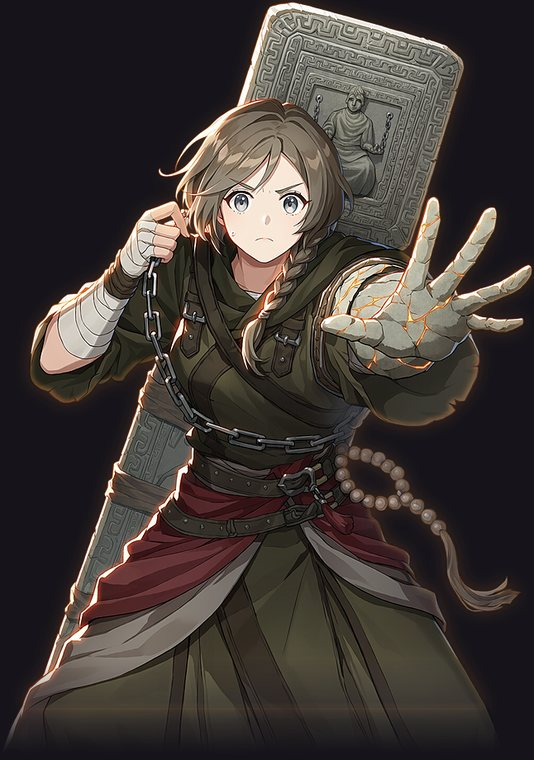
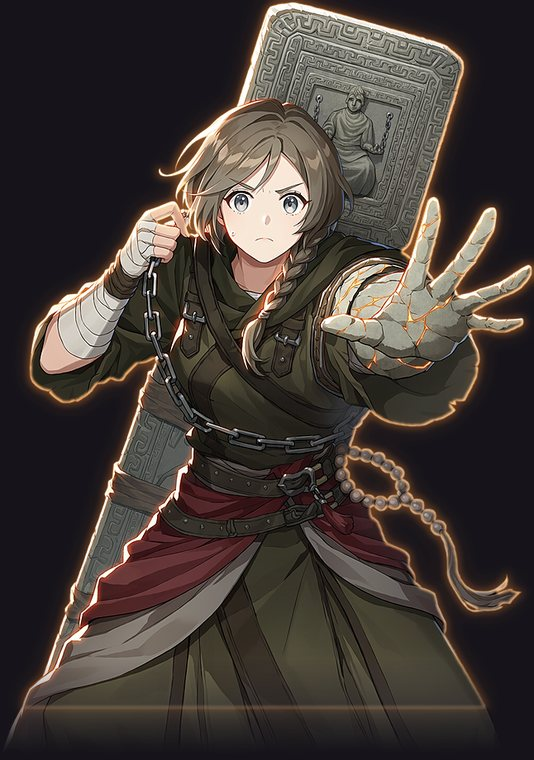
手搓魔法 11-08 审阅：另一世守关者加强（卢西安重做、塞德里克 / 奥斯温更有威压、轮廓光向赛琳娜看齐）

diff --git a/shoucuo-review-1108-guardians/index.html b/shoucuo-review-1108-guardians/index.html
@@ -21,7 +21,7 @@ figure{margin:0;text-align:center} .pair img{width:100%;border-radius:6px;displa
 .foes{display:grid;gap:16px;margin-top:10px} .foe{display:grid;grid-template-columns:220px 1fr;gap:18px;background:#19161d;border-radius:8px;padding:12px}
 .foe .pic img{width:100%;border-radius:6px}
 .alt{color:#b9a9d9;font-size:14px;margin:0 0 4px 1em} .tag{background:#3a2f4a;color:#e0d0ff;font-size:11px;padding:0 5px;border-radius:3px;margin-left:6px}
-.dec{background:#1d2420;border:1px solid #34503f;border-radius:8px;padding:10px 18px;margin-top:12px} .dec b{color:#9fd8a8}
+.dec{background:#1d2420;border:1px solid #34503f;border-radius:8px;padding:10px 18px;margin-top:12px} .dec b{color:#9fd8a8} .cmp{display:flex;gap:6px;flex-wrap:wrap} .cmp img{height:260px;border-radius:4px}
 @media(max-width:760px){.card,.foe,.lineup{grid-template-columns:1fr} .pair{position:static}}
 </style></head><body><main>
 <h1>另一世的敌人 · 守关者 / 精英 / 普通（11-08 待审）</h1>
@@ -35,6 +35,19 @@ figure{margin:0;text-align:center} .pair img{width:100%;border-radius:6px;displa
 <p><b>画风：</b>和现有敌人同一条 NovelAI V5 管线。守关者用 11-06 定稿的半身引导姿态模板（透明底、统一 920 高、暖橙火光轮廓），每人 3 张候选（第 4、6 关第二轮再出 3 张）。精英、普通用原版 gen_foes.py 的同一模板（不加火光轮廓，和原来的一致），精英 3 张、普通 2 张候选。卡片上的大图是选中的，下面是备选。男女：新守关者 3 女 4 男，新精英 4 女 4 男，新普通 4 女 4 男。</p>
 <p><b>本页只是第一阶段：</b>立绘 + 人设，游戏代码没改。确认后再做：接入时间线随机、配音、典籍「另一世」分页、薇丝塔残语。每关先看最上面的三栏阵容（本世 / 另一世对照），往下是人设。</p>
 <p><b>跳到：</b><a href="#s1">1 魔蚀荒原</a> · <a href="#s2">2 失落魔都</a> · <a href="#s3">3 登天古道</a> · <a href="#s4">4 云间断桥</a> · <a href="#s5">5 浮空遗城</a> · <a href="#s6">6 天穹壁垒</a> · <a href="#s7">7 天空王城</a> · <a href="#s8">8 原初源泉</a></p>
+</div>
+<div class="dec"><p><b>本轮改动（用户：新守关者「看起来有点不够强大」）</b></p>
+<p>11-08 用户：新守关者「看起来有点不够强大」→ 卢西安重做成倒转时间三百年的大师（成年、金纹时伤、齿轮披风、钟针巨枪、身后倒转的钟环、上涌的时之沙）；塞德里克（巨钟、铃甲、自下而上）和奥斯温（巨剑扛肩、重铠）换成更有威压的版本；7 位的轮廓光改用 rim_selin.py，向赛琳娜看齐（贴边的暖亮线加强，外晕收淡）。</p>
+<div class="cmp">
+<figure><img src="img/v1_b5_alt.jpg"><figcaption>卢西安 · 上一版</figcaption></figure>
+<figure><img src="img/b5_alt.jpg"><figcaption><b>卢西安 · 新版</b></figcaption></figure>
+<figure><img src="img/b7_selin.jpg"><figcaption>参照 · 赛琳娜的轮廓光</figcaption></figure>
+<figure><img src="img/rimold_b1_alt.jpg"><figcaption>玛尔塔 · 旧轮廓光</figcaption></figure>
+<figure><img src="img/b1_alt.jpg"><figcaption><b>玛尔塔 · 新轮廓光</b></figcaption></figure>
+<figure><img src="img/rimold_b7_alt.jpg"><figcaption>卡西安 · 旧轮廓光</figcaption></figure>
+<figure><img src="img/b7_alt.jpg"><figcaption><b>卡西安 · 新轮廓光</b></figcaption></figure>
+</div>
+<p>塞德里克、奥斯温的上一版在各自卡片的备选里（s3 / s6）。</p>
 </div>
 <div class="dec"><p><b>已定（11-08（用户答复，经协调者转达））</b></p>
 <p><b>剧情依赖：</b>同意：每关在守关者第一次被击败之前都走本世（守关者 / 精英 / 普通都用原来的）；之后每一局随机，整关一起换。</p>
@@ -80,7 +93,7 @@ figure{margin:0;text-align:center} .pair img{width:100%;border-radius:6px;displa
     <h4>战斗台词（↳ 是 alt 句）</h4><table class="lines"><tr><th>登场</th><td><div>「当——……这一刻的名字，已经念过了。」</div><div class="alt">↳ 「当——……你又是这个时辰来的。」<span class="tag">重逢</span></div><div>「沉下去的人，要有人叫，才不会被忘。」</div><div class="alt">↳ 「这口铃，替沉下去的每一个人开口。」</div><div>「你叫什么？……别告诉我。我快念不动了。」</div><div class="alt">↳ 「你的名字……我好像叫过很多次了。没人答。」<span class="tag">多世</span></div></td></tr><tr><th>残血</th><td><div>「铃口裂了……声音在漏。」</div><div class="alt">↳ 「铃声……散在水里了。」</div><div>「还没到整点……不能停！」</div><div class="alt">↳ 「再一下……整点还没过！」</div></td></tr><tr><th>被击败</th><td><div>「铃……不响了。水在往上涨……」</div><div class="alt">↳ 「水又涨上来了……每次都是你。」<span class="tag">曾败</span></div><div>「最后那一段空……留给你自己来答吧。」</div><div class="alt">↳ 「上一次……你好像，答了一声。」<span class="tag">曾败</span></div></td></tr><tr><th>胜利</th><td><div>「当——我会把你也叫一遍。」</div><div class="alt">↳ 「当——又叫了你一次。」<span class="tag">重逢</span></div><div>「放心，你的名字，我念得很轻。」</div><div class="alt">↳ 「这一轮最后那段空……还是留给你。」<span class="tag">多世</span></div></td></tr></table>
     <h4>守关规则联想（只作风味，不使用：规则仍从致命魔法池随机）</h4>
     <p><code>bl_mouth</code> 只能施放 1 种魔法 —— 补咒王维斯的独解令：一口铃，只敲得出一种声音。</p>
-    <h4>备选立绘</h4><div class="alts"><figure><img loading="lazy" src="img/b2_alt_s1.jpg"><figcaption>s1</figcaption></figure><figure><img loading="lazy" src="img/b2_alt_s2.jpg"><figcaption>s2</figcaption></figure></div>
+    <h4>备选立绘</h4><div class="alts"><figure><img loading="lazy" src="img/b2_alt_s3.jpg"><figcaption>s3</figcaption></figure><figure><img loading="lazy" src="img/b2_alt_s7.jpg"><figcaption>s7</figcaption></figure><figure><img loading="lazy" src="img/b2_alt_s9.jpg"><figcaption>s9</figcaption></figure></div>
   </div>
 </section><div class="foes"><div class="foe" id="e2_alt"><figure class="pic"><img loading="lazy" src="img/foe_e2_alt.jpg"></figure><div><h3>溺城赦免官 <small> 水下法庭 · 精英（第 2 战） · 女 · <code>e2_alt</code></small></h3><p class="quote">「依新法：登天者，赦——赦你不必再往上走。」</p><h4>人设</h4><p>法务官的副手。那一世，书库的灯灭了，名录沉了，法务官抱着旧法典沉了下去。她留在水下法庭，按铃声开庭：塞德里克每敲一下铃，她就签一份赦令。她赦免每一个登天者，赦他们不必再走——然后让他们在水里睡着。</p><h4>心愿</h4><p>想有人告诉她，赦令是对的。几百年来，她只赦过别人，从没有人赦过她。</p><h4>和本世「溺城法务官」的镜像</h4><p>本世的法务官按旧法第七条判登天者「当斩」，只等有人说这条法令可以不算了；另一世的她把旧法沉进水里，换成了赦——可赦和斩，落在登天者身上，是同一个结局。</p><h4>台词（↳ 是 alt 句）</h4><table class="lines"><tr><th>登场</th><td><div>「肃静——铃响了，开庭。」</div><div class="alt">↳ 「肃静。本庭……见过你。」<span class="tag">重逢</span></div></td></tr><tr><th>被击败</th><td><div>「这份赦令……留给我自己吧。」</div><div class="alt">↳ 「赦令……签不下去了。」</div></td></tr><tr><th>胜利</th><td><div>「赦你。睡吧，不必再走了。」</div><div class="alt">↳ 「再赦你一次。你每次都不肯睡。」<span class="tag">多世</span></div></td></tr></table><h4>备选立绘</h4><div class="alts small"><figure><img loading="lazy" src="img/foe_e2_alt_s2.jpg"><figcaption>s2</figcaption></figure><figure><img loading="lazy" src="img/foe_e2_alt_s3.jpg"><figcaption>s3</figcaption></figure></div></div></div><div class="foe" id="n2_alt"><figure class="pic"><img loading="lazy" src="img/foe_n2_alt.jpg"></figure><div><h3>溺城铃童 <small> 普通（第 1 战） · 男 · <code>n2_alt</code></small></h3><h4>人设</h4><p>钟楼底下拉铃绳的孩子。塞德里克敲手铃，他们拉大钟。绳子泡了三百年，越来越沉，他们却越拉越小。</p><h4>和本世「浮游抄写员」的镜像</h4><p>本世的抄写员怕你踩到写着名字的纸；另一世没人写字了，孩子们怕你碰到铃绳。</p><h4>台词（↳ 是 alt 句）</h4><table class="lines"><tr><th>登场</th><td><div>「别碰绳子！一松手，大钟就不响了！」</div><div class="alt">↳ 「又是你？……别碰绳子！」<span class="tag">重逢</span></div></td></tr><tr><th>被击败</th><td><div>「绳……从手里滑走了……」</div><div class="alt">↳ 「手……拉不动了……」</div></td></tr><tr><th>胜利</th><td><div>「当——！你听，又一个名字。」</div><div class="alt">↳ 「当——这一声，是给你的。」<span class="tag">多世</span></div></td></tr></table><h4>备选立绘</h4><div class="alts small"><figure><img loading="lazy" src="img/foe_n2_alt_s2.jpg"><figcaption>s2</figcaption></figure></div></div></div></div><h2 class="stage" id="s3">第 3 关 · 登天古道</h2><div class="lineup"><div class="col"><h5>第 1 战 · 普通</h5><div class="duo"><figure><img loading="lazy" src="img/foe_n3.jpg"><figcaption>本世 · 碑文守卫</figcaption></figure><figure><img loading="lazy" src="img/foe_n3_alt.jpg"><figcaption><b>另一世</b> · 负石脚夫</figcaption></figure></div></div><div class="col"><h5>第 2 战 · 精英</h5><div class="duo"><figure><img loading="lazy" src="img/foe_e3.jpg"><figcaption>本世 · 石面苦行法师</figcaption></figure><figure><img loading="lazy" src="img/foe_e3_alt.jpg"><figcaption><b>另一世</b> · 刻像苦行法师</figcaption></figure></div></div><div class="col"><h5>第 3 战 · 守关者</h5><div class="duo"><figure><img loading="lazy" src="img/b3_bald.jpg"><figcaption>本世 · 巴尔德温</figcaption></figure><figure><img loading="lazy" src="img/b3_alt.jpg"><figcaption><b>另一世</b> · 艾格妮丝</figcaption></figure></div></div></div>
 <section class="card" id="b3_alt">
@@ -120,7 +133,7 @@ figure{margin:0;text-align:center} .pair img{width:100%;border-radius:6px;displa
     <h4>战斗台词（↳ 是 alt 句）</h4><table class="lines"><tr><th>登场</th><td><div>「断桥守卫团团长，奥斯温。」</div><div class="alt">↳ 「奥斯温。……你又来了，我认得你的影子。」<span class="tag">重逢</span></div><div>「我往下看了一眼。只一眼。」</div><div class="alt">↳ 「我往下看过一眼，从此只往下看。」</div><div>「站住——这座桥，不再送任何人过去了。」</div><div class="alt">↳ 「回去。这座桥，掉下去的已经够多了。」</div></td></tr><tr><th>残血</th><td><div>「风把云吹开了……下面，好深。」</div><div class="alt">↳ 「云……又在下面张开了。」</div><div>「全团都在下面……我不能倒在这里！」</div><div class="alt">↳ 「你每回倒下，我都往云下找一遍。」<span class="tag">多世</span></div></td></tr><tr><th>被击败</th><td><div>「我……又往下看了。」</div><div class="alt">↳ 「我又往下看了……这一次，看的是你。」<span class="tag">曾败</span></div><div>「孩子……这一次，我不往下看了。我往上看。」</div><div class="alt">↳ 「往上看……你每次都这样跟我说吗。」<span class="tag">曾败</span></div></td></tr><tr><th>胜利</th><td><div>「躺好。别往下看。」</div><div class="alt">↳ 「别往下看。……你每次都往下看。」<span class="tag">重逢</span></div><div>「桥还在。你过不去。」</div><div class="alt">↳ 「又一个名字。我念的时候，会念得慢一点。」<span class="tag">多世</span></div></td></tr></table>
     <h4>守关规则联想（只作风味，不使用：规则仍从致命魔法池随机）</h4>
     <p><code>bl_plant</code> 人像元素被削弱 —— 断桥的藤缚咒：藤爬上团员的画像，他一张也没去扯。</p>
-    <h4>备选立绘</h4><div class="alts"><figure><img loading="lazy" src="img/b4_alt_s1.jpg"><figcaption>s1</figcaption></figure><figure><img loading="lazy" src="img/b4_alt_s2.jpg"><figcaption>s2</figcaption></figure><figure><img loading="lazy" src="img/b4_alt_s3.jpg"><figcaption>s3</figcaption></figure><figure><img loading="lazy" src="img/b4_alt_s4.jpg"><figcaption>s4</figcaption></figure><figure><img loading="lazy" src="img/b4_alt_s5.jpg"><figcaption>s5</figcaption></figure></div>
+    <h4>备选立绘</h4><div class="alts"><figure><img loading="lazy" src="img/b4_alt_s4.jpg"><figcaption>s4</figcaption></figure><figure><img loading="lazy" src="img/b4_alt_s5.jpg"><figcaption>s5</figcaption></figure><figure><img loading="lazy" src="img/b4_alt_s6.jpg"><figcaption>s6</figcaption></figure><figure><img loading="lazy" src="img/b4_alt_s7.jpg"><figcaption>s7</figcaption></figure></div>
   </div>
 </section><div class="foes"><div class="foe" id="e4_alt"><figure class="pic"><img loading="lazy" src="img/foe_e4_alt.jpg"></figure><div><h3>断桥钩绳手 <small> 钩错的人 · 精英（第 2 战） · 男 · <code>e4_alt</code></small></h3><p class="quote">「那天的钩绳是我扔的。我只钩住了一个。」</p><h4>人设</h4><p>断桥守卫团的钩绳手。桥断那一刻，他扔出钩绳，只钩住了团长。他一直觉得钩错了人——团长也这么想，两个人谁都没说。如今他替团长守着桥的这一头，每天往云下扔一次钩绳，钩上来的只有风。</p><h4>心愿</h4><p>想钩住那个孩子。断口上系着的那截红缎带，是他三百年前唯一钩上来的东西。</p><h4>和本世「断桥守卫副团长」的镜像</h4><p>本世，副团长回来时只剩菲奥娜挂在钩绳上，从此管那孩子叫「团长」；另一世，挂在钩绳上的是团长本人，而那根钩绳是他扔的。</p><h4>台词（↳ 是 alt 句）</h4><table class="lines"><tr><th>登场</th><td><div>「站住！我的钩绳，够得着你。」</div><div class="alt">↳ 「这根钩绳……钩过你。」<span class="tag">重逢</span></div></td></tr><tr><th>被击败</th><td><div>「绳断了……这次，换我下去。」</div><div class="alt">↳ 「钩不住了……我总是钩不住。」</div></td></tr><tr><th>胜利</th><td><div>「钩住了。……又不是她。」</div><div class="alt">↳ 「钩上来了。……还是你。」<span class="tag">多世</span></div></td></tr></table><h4>备选立绘</h4><div class="alts small"><figure><img loading="lazy" src="img/foe_e4_alt_s2.jpg"><figcaption>s2</figcaption></figure><figure><img loading="lazy" src="img/foe_e4_alt_s3.jpg"><figcaption>s3</figcaption></figure></div></div></div><div class="foe" id="n4_alt"><figure class="pic"><img loading="lazy" src="img/foe_n4_alt.jpg"></figure><div><h3>系缎少女 <small> 普通（第 1 战） · 女 · <code>n4_alt</code></small></h3><h4>人设</h4><p>断桥下村子里的姑娘。团员跳下去之后，她们每年上桥一次，在栏杆上替每个名字系一条红缎带。风把缎带吹成一片红，团长从不抬头看。</p><h4>和本世「风哨术士」的镜像</h4><p>本世的风哨术士吹哨叫人掉下去；另一世的姑娘们系缎带，替掉下去的人留个记号。</p><h4>台词（↳ 是 alt 句）</h4><table class="lines"><tr><th>登场</th><td><div>「别踩那些缎带——每一条都是一个人！」</div><div class="alt">↳ 「你又来了……你的那条缎带，还系着呢。」<span class="tag">多世</span></div></td></tr><tr><th>被击败</th><td><div>「缎带……被风吹走了……」</div><div class="alt">↳ 「缎带……飞走了一条……」</div></td></tr><tr><th>胜利</th><td><div>「给你也系一条吧。红的。」</div><div class="alt">↳ 「再给你系一条。你的，已经好多条了。」<span class="tag">重逢</span></div></td></tr></table><h4>备选立绘</h4><div class="alts small"><figure><img loading="lazy" src="img/foe_n4_alt_s2.jpg"><figcaption>s2</figcaption></figure></div></div></div></div><h2 class="stage" id="s5">第 5 关 · 浮空遗城</h2><div class="lineup"><div class="col"><h5>第 1 战 · 普通</h5><div class="duo"><figure><img loading="lazy" src="img/foe_n5.jpg"><figcaption>本世 · 齿轮学徒</figcaption></figure><figure><img loading="lazy" src="img/foe_n5_alt.jpg"><figcaption><b>另一世</b> · 拨钟学徒</figcaption></figure></div></div><div class="col"><h5>第 2 战 · 精英</h5><div class="duo"><figure><img loading="lazy" src="img/foe_e5.jpg"><figcaption>本世 · 遗城机巧师</figcaption></figure><figure><img loading="lazy" src="img/foe_e5_alt.jpg"><figcaption><b>另一世</b> · 记日女官</figcaption></figure></div></div><div class="col"><h5>第 3 战 · 守关者</h5><div class="duo"><figure><img loading="lazy" src="img/b5_clo.jpg"><figcaption>本世 · 克洛伊</figcaption></figure><figure><img loading="lazy" src="img/b5_alt.jpg"><figcaption><b>另一世</b> · 卢西安</figcaption></figure></div></div></div>
 <section class="card" id="b5_alt">
@@ -132,15 +145,15 @@ figure{margin:0;text-align:center} .pair img{width:100%;border-radius:6px;displa
     <h3>卢西安 <small>回拨钟侍 · 守关者（第 3 战） · <code>b5_alt</code></small></h3>
     <p class="quote">「城每晚都会坠落一次。我每晚都把它拨回来。」</p>
     <p class="motto">宣言：今天还没过完。</p>
-    <h4>人设</h4><p>克洛伊的学徒，遗城宫廷最年轻的钟侍。时间魔导他只学会了一半：停不住时间，只会往回拨。那一世，莉瑟女王走进光里时，克洛伊跟了上去；临走前，她把上发条的金钥匙留给了他。后来天阶崩落，遗城开始坠落，他停不住城，只能把它拨回去——每天夜里城坠落一次，他就把时间拨回前一天的清晨，拨回她还在的那一天。三百年，遗城一直过着同一天。走过这座城的登天者，第二天醒来都不记得自己来过；他拦下每一个人，因为钥匙一停，城就会真的落下去。</p>
+    <h4>人设</h4><p>克洛伊的学徒。他曾是遗城宫廷最年轻的钟侍，时间魔导只学会了一半：停不住时间，只会往回拨。三百年夜夜倒拨一座城，把那个少年磨成了倒转时间的大师——脸上的金纹，是每一次拧回钥匙时，时间从他身上划过的伤。那一世，莉瑟女王走进光里时，克洛伊跟了上去；临走前，她把上发条的金钥匙留给了他。后来天阶崩落，遗城开始坠落，他停不住城，只能把它拨回去——每天夜里城坠落一次，他就把时间拨回前一天的清晨，拨回她还在的那一天。三百年，遗城一直过着同一天。走过这座城的登天者，第二天醒来都不记得自己来过；他拦下每一个人，因为钥匙一停，城就会真的落下去。</p>
     <h4>和本世「克洛伊」的关系</h4><p>克洛伊的学徒。她停住时间，他拨回时间。克洛伊那一世，他是跟着城一起被停住的小钟侍，站在钟楼上三百年没眨过眼；这一世，走的是她，留下的是他。她的台词「女王走进光里那天，我没有跟上去」，在这一世反过来成立。</p>
-    <h4>残卷</h4><ol class="frags"><li><b>壹</b>那一世，女王走进光里时，克洛伊跟了上去。她把上发条的金钥匙，留给了最小的钟侍。</li><li><b>贰</b>时间魔导，他只学会了一半：停不住时间，只会往回拨。</li><li><b>叁</b>天阶崩落那夜，城开始坠落。他把钥匙往回拧了一整圈——城回到了前一天的清晨。</li><li><b>肆</b>从此遗城每晚坠落一次，他每晚拨回一次。三百年，城里一直是她走之前的那一天。</li><li><b>伍</b>那一天的傍晚，她会在钟楼上回头，对他说一句话。三百年，他听了十万遍，还是没听清。</li></ol>
+    <h4>残卷</h4><ol class="frags"><li><b>壹</b>那一世，女王走进光里时，克洛伊跟了上去。她把上发条的金钥匙，留给了最小的钟侍。</li><li><b>贰</b>时间魔导，他只学会了一半：停不住时间，只会往回拨。三百年后，这一半已经没有人比他更会。</li><li><b>叁</b>天阶崩落那夜，城开始坠落。他把钥匙往回拧了一整圈——城回到了前一天的清晨。</li><li><b>肆</b>从此遗城每晚坠落一次，他每晚拨回一次。三百年，城里一直是她走之前的那一天。</li><li><b>伍</b>那一天的傍晚，她会在钟楼上回头，对他说一句话。三百年，他听了十万遍，还是没听清。</li></ol>
     <h4>心愿</h4><p>想让城过一次明天。哪怕明天她不在了——他只是想知道，钟往前走一格，是什么声音。</p>
     <h4>钩子（指向下一关，两条时间线都成立）</h4><p class="hook">壁垒上的雷，三百年没有停过。卡斯坦家，总有人顶着天。</p>
     <h4>战斗台词（↳ 是 alt 句）</h4><table class="lines"><tr><th>登场</th><td><div>「嘘……天快亮了。今天，又是同一天。」</div><div class="alt">↳ 「嘘……今天你又来了。和昨天一样。」<span class="tag">重逢</span></div><div>「城每晚都会坠落一次。我每晚都把它拨回来。」</div><div class="alt">↳ 「这座城只有一天。我替它守着这一天。」</div><div>「你昨天也来过吗？……不，你不记得。谁都不记得。」</div><div class="alt">↳ 「你昨天……也站在这里。我数过。」<span class="tag">多世</span></div></td></tr><tr><th>残血</th><td><div>「钥匙……拧不动了……」</div><div class="alt">↳ 「指针……在抖。」</div><div>「天还不能黑——天一黑，城就会掉！」</div><div class="alt">↳ 「天黑之前……不能让你过去！」</div></td></tr><tr><th>被击败</th><td><div>「钟……往前走了一格。」</div><div class="alt">↳ 「钟又走了一格……你每次都让它走。」<span class="tag">曾败</span></div><div>「原来明天……是这个声音。」</div><div class="alt">↳ 「明天的声音……我好像听过很多次了。」<span class="tag">曾败</span></div></td></tr><tr><th>胜利</th><td><div>「睡吧。明天醒来，你还在今天。」</div><div class="alt">↳ 「睡吧。今天还长着呢。」</div><div>「我会把你也拨回去，拨回你还没受伤的时候。」</div><div class="alt">↳ 「我把你拨回来了。……你还会再来。」<span class="tag">多世</span></div></td></tr></table>
     <h4>守关规则联想（只作风味，不使用：规则仍从致命魔法池随机）</h4>
     <p><code>bl_wheel</code> 1/7 的元素翻面 —— 错星咒：同一天过了三百年，总有一颗星记错了位置。</p>
-    <h4>备选立绘</h4><div class="alts"><figure><img loading="lazy" src="img/b5_alt_s1.jpg"><figcaption>s1</figcaption></figure><figure><img loading="lazy" src="img/b5_alt_s2.jpg"><figcaption>s2</figcaption></figure></div>
+    <h4>备选立绘</h4><div class="alts"><figure><img loading="lazy" src="img/b5_alt_s7.jpg"><figcaption>s7</figcaption></figure><figure><img loading="lazy" src="img/b5_alt_s8.jpg"><figcaption>s8</figcaption></figure></div>
   </div>
 </section><div class="foes"><div class="foe" id="e5_alt"><figure class="pic"><img loading="lazy" src="img/foe_e5_alt.jpg"></figure><div><h3>记日女官 <small> 十万个今天 · 精英（第 2 战） · 女 · <code>e5_alt</code></small></h3><p class="quote">「今天……我数到第几个今天了？」</p><h4>人设</h4><p>遗城宫廷的记日女官。城每晚被拨回同一天，城里人什么都不记得；只有她，因为那天打碎了自己的沙漏，记得每一个重来的今天。三百年，她写满了十万页日记，每一页的开头都一样。</p><h4>心愿</h4><p>想写一页不一样的日记。哪怕只有一个字不一样。</p><h4>和本世「遗城机巧师」的镜像</h4><p>本世的机巧师拆了心、装了一只表，好跟停住的城一起停；另一世的她打碎了沙漏，成了城里唯一往前走的人——走了十万步，还在同一天里。</p><h4>台词（↳ 是 alt 句）</h4><table class="lines"><tr><th>登场</th><td><div>「今天……我数到第几个今天了？」</div><div class="alt">↳ 「今天……你也来过。我写下了。」<span class="tag">重逢</span></div></td></tr><tr><th>被击败</th><td><div>「这一页……终于不一样了。」</div><div class="alt">↳ 「这一页……终于有一个字不一样了。」</div></td></tr><tr><th>胜利</th><td><div>「记下了：今天，又有人倒在这里。和昨天一样。」</div><div class="alt">↳ 「记下：今天，又是你。」<span class="tag">多世</span></div></td></tr></table><h4>备选立绘</h4><div class="alts small"><figure><img loading="lazy" src="img/foe_e5_alt_s2.jpg"><figcaption>s2</figcaption></figure><figure><img loading="lazy" src="img/foe_e5_alt_s3.jpg"><figcaption>s3</figcaption></figure></div></div></div><div class="foe" id="n5_alt"><figure class="pic"><img loading="lazy" src="img/foe_n5_alt.jpg"></figure><div><h3>拨钟学徒 <small> 普通（第 1 战） · 男 · <code>n5_alt</code></small></h3><h4>人设</h4><p>卢西安手下的小学徒。天黑之前，他们要爬遍全城的钟，把每一根指针拨回清晨。拨慢了一根，那座钟底下的街就会先掉下去。</p><h4>和本世「齿轮学徒」的镜像</h4><p>本世的齿轮学徒怕齿轮一停城就掉；另一世的学徒怕的是指针往前走。</p><h4>台词（↳ 是 alt 句）</h4><table class="lines"><tr><th>登场</th><td><div>「天黑前要把钟全拨回去！别挡路！」</div><div class="alt">↳ 「快拨快拨！——你怎么又在这儿？」<span class="tag">重逢</span></div></td></tr><tr><th>被击败</th><td><div>「指针……往前跳了一格……」</div><div class="alt">↳ 「指针……停不住了……」</div></td></tr><tr><th>胜利</th><td><div>「拨好啦！明天，你又会从头来。」</div><div class="alt">↳ 「拨回去啦！你明天还会来的。」<span class="tag">多世</span></div></td></tr></table><h4>备选立绘</h4><div class="alts small"><figure><img loading="lazy" src="img/foe_n5_alt_s2.jpg"><figcaption>s2</figcaption></figure></div></div></div></div><h2 class="stage" id="s6">第 6 关 · 天穹壁垒</h2><div class="lineup"><div class="col"><h5>第 1 战 · 普通</h5><div class="duo"><figure><img loading="lazy" src="img/foe_n6.jpg"><figcaption>本世 · 壁垒炮术士</figcaption></figure><figure><img loading="lazy" src="img/foe_n6_alt.jpg"><figcaption><b>另一世</b> · 铆盾女工</figcaption></figure></div></div><div class="col"><h5>第 2 战 · 精英</h5><div class="duo"><figure><img loading="lazy" src="img/foe_e6.jpg"><figcaption>本世 · 雷枪战斗法师</figcaption></figure><figure><img loading="lazy" src="img/foe_e6_alt.jpg"><figcaption><b>另一世</b> · 壁垒盾卫长</figcaption></figure></div></div><div class="col"><h5>第 3 战 · 守关者</h5><div class="duo"><figure><img loading="lazy" src="img/b6_rain.jpg"><figcaption>本世 · 雷恩 · 卡斯坦</figcaption></figure><figure><img loading="lazy" src="img/b6_alt.jpg"><figcaption><b>另一世</b> · 伊芙琳 · 卡斯坦</figcaption></figure></div></div></div>
 <section class="card" id="b6_alt">
